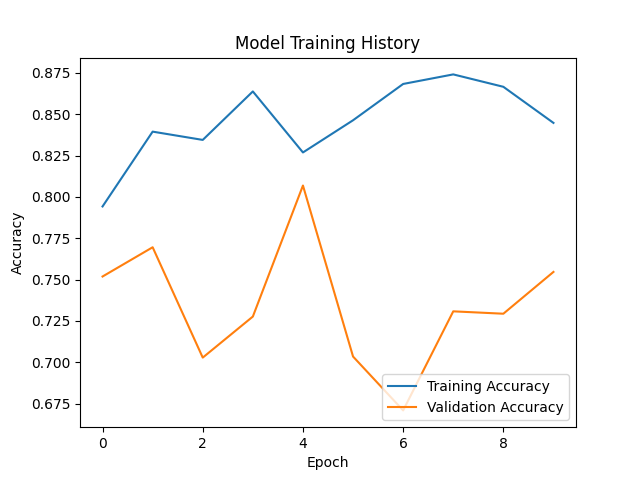
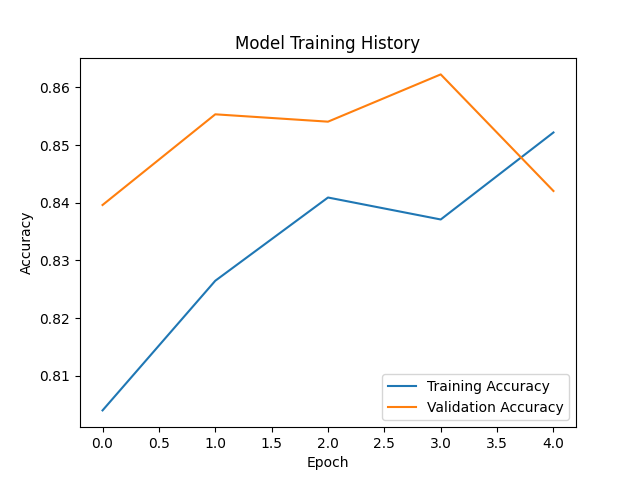
Added DNN

diff --git a/UNSW-NB15-ml-ids-sklearn-poc.py b/UNSW-NB15-ml-ids-sklearn-poc.py
@@ -25,10 +25,18 @@ warnings.filterwarnings('ignore')
 display_results = False
 generate_statistics_pie = False
 dataset_name = "UNSW-NB15"
-output_dir = "./output/UNSW-NB15"
+output_dir = "./output/UNSW-NB15_DNN"
 train_path = "./input/UNSW_NB15/UNSW_NB15_training-set.csv"
 test_path = "./input/UNSW_NB15/UNSW_NB15_testing-set.csv"
 columns = (['id', 'dur', 'proto', 'service', 'state', 'spkts', 'dpkts', 'sbytes', 'dbytes', 'rate', 'sttl', 'dttl', 'sload', 'dload', 'sloss', 'dloss', 'sinpkt', 'dinpkt', 'sjit', 'djit', 'swin', 'stcpb', 'dtcpb', 'dwin', 'tcprtt', 'synack', 'ackdat', 'smean', 'dmean', 'trans_depth', 'response_body_len', 'ct_srv_src', 'ct_state_ttl', 'ct_dst_ltm', 'ct_src_dport_ltm', 'ct_dst_sport_ltm', 'ct_dst_src_ltm', 'is_ftp_login', 'ct_ftp_cmd', 'ct_flw_http_mthd', 'ct_src_ltm', 'ct_srv_dst', 'is_sm_ips_ports', 'attack_cat', 'label'])
+
+# Preprocessing Settings
+
+use_single_dataset = False # Use a single dataset ans splits it into test and train sets
+split_train_ratio = 0.6 # Train size
+split_test_ratio = 1 - split_train_ratio
+rndm_state = 42
+
 # Models to evaluate
 bool_lr         = False
 bool_knn        = False
@@ -160,28 +168,47 @@ if (generate_statistics_pie):
     pie_plot(data_train, ['attack_cat', 'label'], 1, 2)
 
 cat_cols = ['attack_cat', 'label']
-# Process training set
-scaled_train = preprocess(data_train)
-x_train = scaled_train.drop(['label'], axis=1).values
-y_train = scaled_train['label'].values
-y_train = y_train.astype('int')
 
-pca_train = PCA(n_components=20)
-x_train_reduced = pca_train.fit_transform(x_train)
-y_train_reduced = y_train
+# Process and split dataset
 
-# Process testing set
-scaled_test = preprocess(data_test)
-x_test = scaled_test.drop(['label'], axis=1).values
-y_test = scaled_test['label'].values
-y_test = y_test.astype('int')
+if (use_single_dataset): 
+    scaled_train = preprocess(data_train)
 
-pca_test = PCA(n_components=20)
-x_test_reduced = pca_test.fit_transform(x_test)
-y_test_reduced = y_test
+    x = scaled_train.drop(['label'] , axis = 1).values
+    y = scaled_train['label'].values
 
-printlog(f"[{get_ts()}] Training set original features: {x_train.shape[1]}, reduced features: {x_train_reduced.shape[1]}")
-printlog(f"[{get_ts()}] Testing set original features: {x_test.shape[1]}, reduced features: {x_test_reduced.shape[1]}")
+    pca = PCA(n_components=20)
+    pca = pca.fit(x)
+    x_reduced = pca.transform(x)
+    printlog(f"[{get_ts()}] Number of original features is {x.shape[1]} and of reduced features is {x_reduced.shape[1]}")
+
+    y = y.astype('int')
+    x_train, x_test, y_train, y_test = train_test_split(x, y, test_size=split_test_ratio, random_state=rndm_state)
+    x_train_reduced, x_test_reduced, y_train_reduced, y_test_reduced = train_test_split(x_reduced, y, test_size=split_test_ratio, random_state=rndm_state)
+
+else:
+    # Process training set
+    scaled_train = preprocess(data_train)
+    x_train = scaled_train.drop(['label'], axis=1).values
+    y_train = scaled_train['label'].values
+    y_train = y_train.astype('int')
+
+    pca_train = PCA(n_components=20)
+    x_train_reduced = pca_train.fit_transform(x_train)
+    y_train_reduced = y_train
+
+    # Process testing set
+    scaled_test = preprocess(data_test)
+    x_test = scaled_test.drop(['label'], axis=1).values
+    y_test = scaled_test['label'].values
+    y_test = y_test.astype('int')
+
+    pca_test = PCA(n_components=20)
+    x_test_reduced = pca_test.fit_transform(x_test)
+    y_test_reduced = y_test
+
+    printlog(f"[{get_ts()}] Training set original features: {x_train.shape[1]}, reduced features: {x_train_reduced.shape[1]}")
+    printlog(f"[{get_ts()}] Testing set original features: {x_test.shape[1]}, reduced features: {x_test_reduced.shape[1]}")
 
 kernal_evals = dict()
 def evaluate_classification(model, name, X_train, X_test, y_train, y_test):
@@ -324,14 +351,17 @@ if (bool_xgb):
     # if (display_results): plt.show()
 
 if (bool_dnn):
+    name = "DNN"
     printlog(f"[{get_ts()}] Preparing DNN")
     start_time = time.time()
     dnn = tf.keras.Sequential()
     dnn.add(tf.keras.layers.Dense(128, activation='relu', input_shape=(x_train.shape[1],)))
+    dnn.add(tf.keras.layers.Dropout(0.2))
     dnn.add(tf.keras.layers.Dense(64, activation='relu'))
+    dnn.add(tf.keras.layers.Dropout(0.2))
     dnn.add(tf.keras.layers.Dense(1, activation='relu'))
     dnn.compile(optimizer=tf.keras.optimizers.Adam(learning_rate=0.001), loss='binary_crossentropy', metrics=['accuracy'])
-    results = dnn.fit(x_train, y_train, epochs=10, batch_size=32, validation_data=(x_test, y_test))
+    results = dnn.fit(x_train, y_train, epochs=50, batch_size=32, validation_data=(x_test, y_test))
     end_time = time.time()
     printlog(f"[{get_ts()}] Training time: {(end_time - start_time):.4f}")
     # evaluate_classification(dnn, "DNN", x_train, x_test, y_train, y_test)
@@ -347,6 +377,19 @@ if (bool_dnn):
     plt.savefig(os.path.join(output_dir, f"{counter}Deep Neural Network.png"))
     print(f"[{get_ts()}] Saved results to {output_dir}/{counter}Deep Neural Network.png", flush=True)
     if(display_results): plt.show()
+
+    actual = y_test
+    # predicted = dnn.predict(x_test)
+    predicted = (dnn.predict(x_test) > 0.5).astype("int32")
+    confusion_matrix = metrics.confusion_matrix(actual, predicted)
+    cm_display = metrics.ConfusionMatrixDisplay(confusion_matrix=confusion_matrix, display_labels=['Normal', 'Attack'])
+    
+    fig, ax = plt.subplots(figsize=(6, 4))
+    ax.grid(False)
+    cm_display.plot(ax=ax)
+    counter = get_filename_counter()
+    plt.savefig(os.path.join(output_dir, f"{counter}{name}_confusion_matrix.png"))
+    print(f"[{get_ts()}] Saved results to {output_dir}/{counter}{name}_confusion_matrix.png", flush=True)
 
 
 log.close()
